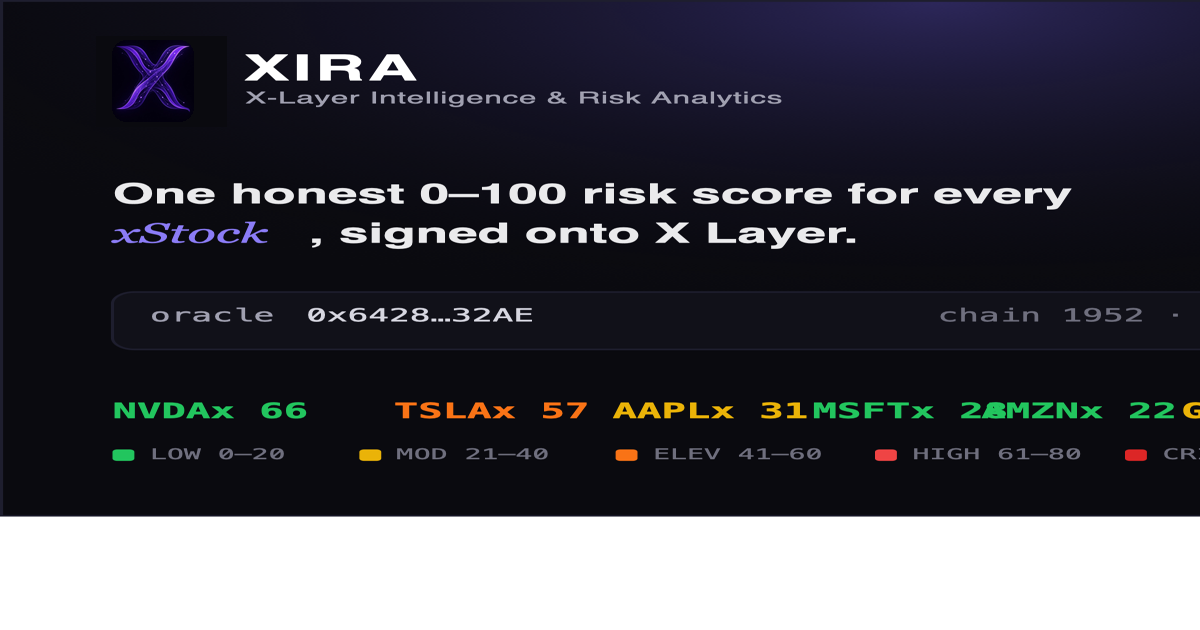
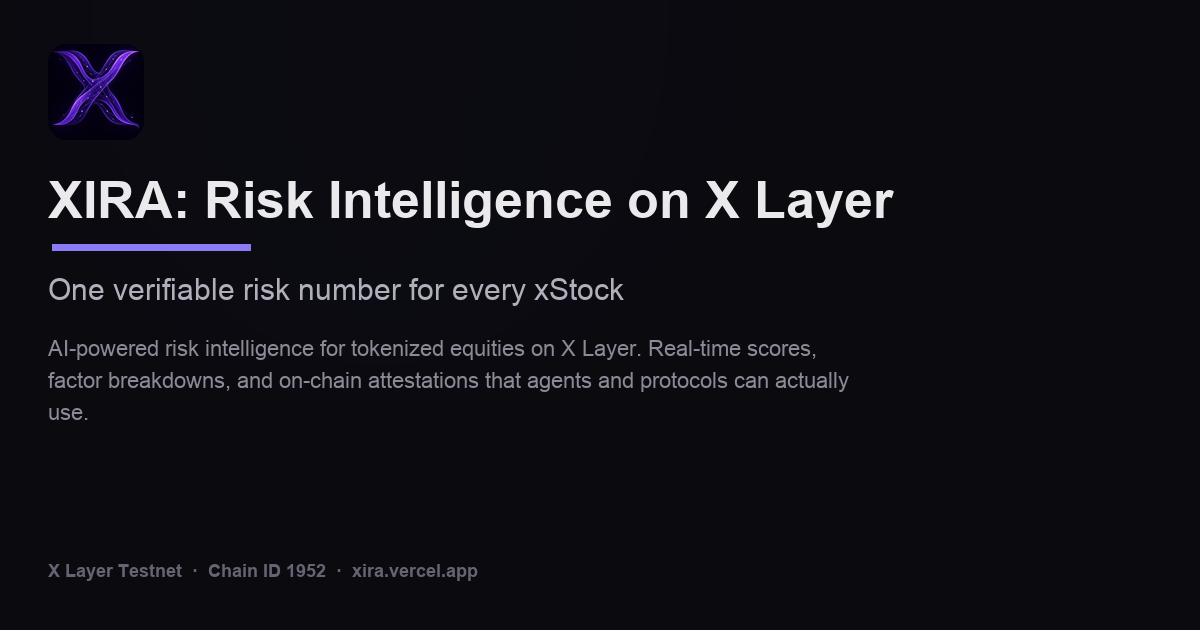
feat(ui): footer redesign, how-to-verify and FAQ sections, new OG copy

diff --git a/frontend/app/page.tsx b/frontend/app/page.tsx
@@ -7,12 +7,14 @@ import { LiveHeatmap } from "@/components/landing/LiveHeatmap";
 import { CopyButton } from "@/components/landing/CopyButton";
 
 export const metadata: Metadata = {
-  title: "XIRA: Risk Intelligence on X Layer",
+  title: "XIRA: One Verifiable Risk Number for Every xStock",
   description:
-    "One honest 0–100 risk score for every tokenized equity, signed onto X Layer as a verifiable attestation.",
+    "AI-powered risk intelligence for tokenized equities on X Layer. Real-time scores, factor breakdowns, and on-chain attestations that agents and protocols can actually use.",
 };
 
 const CONTRACT = "0x64288ccD936470f66D7035e824A9141C938C32AE";
+const EXPLORER = "https://www.okx.com/web3/explorer/xlayer-test";
+const CONTRACT_URL = `${EXPLORER}/address/${CONTRACT}`;
 
 const PIPELINE = [
   {
@@ -64,6 +66,52 @@ const MCP_TOOLS = [
   "xira_get_asset_risk",
   "xira_get_all_assets",
   "xira_get_attestation_history",
+];
+
+const VERIFY_STEPS = [
+  {
+    title: "Copy the oracle contract address",
+    detail: "This is the address every score is published to:",
+  },
+  {
+    title: "Open it on the OKX Explorer",
+    detail: "Each meaningful score update is recorded onchain as a transaction.",
+  },
+  {
+    title: "Check the latest transactions and events",
+    detail: "Match the score, timestamp, and evidence hash shown on this dashboard with the on-chain data.",
+  },
+  {
+    title: "Verify, independently",
+    detail: "Every risk number you see can be verified without trusting this site.",
+  },
+];
+
+const FAQ = [
+  {
+    q: "What is XIRA?",
+    a: "XIRA (X-Layer Intelligence & Risk Analytics) generates real-time risk scores for xStocks and publishes them as verifiable attestations on X Layer.",
+  },
+  {
+    q: "How is the risk score calculated?",
+    a: "It uses a transparent five-factor model: Momentum, Volatility, Sentiment, Volume Anomaly, and Liquidity Proxy. These are combined into a single 0–100 score.",
+  },
+  {
+    q: "Why put the score onchain?",
+    a: "So agents, smart contracts, and users can trust and use the data without relying on a centralized API or dashboard.",
+  },
+  {
+    q: "How often are scores updated?",
+    a: "The system re-scores all markets every 30 minutes and only writes a new attestation when the score changes meaningfully.",
+  },
+  {
+    q: "Can agents use this data?",
+    a: "Yes. XIRA exposes MCP tools (xira_get_asset_risk, xira_get_all_assets, xira_get_attestation_history) so agents can query risk data directly.",
+  },
+  {
+    q: "Is this live on mainnet?",
+    a: "Currently live on X Layer Testnet (Chain ID 1952). Mainnet deployment is planned after the hackathon.",
+  },
 ];
 
 const RWA_GAPS = [
@@ -125,10 +173,10 @@ export default function LandingPage() {
                     Open dashboard
                   </a>
                   <a
-                    href="#chain"
+                    href="#verify"
                     className="inline-flex items-center justify-center px-6 h-12 rounded-xl border border-[var(--card-border)] text-neutral-300 hover:text-white hover:border-neutral-600 transition-colors active:scale-[0.98]"
                   >
-                    Verify on-chain
+                    How to verify
                   </a>
                 </div>
               </Reveal>
@@ -272,6 +320,70 @@ export default function LandingPage() {
         </div>
       </section>
 
+      <section
+        id="verify"
+        className="max-w-7xl mx-auto px-4 sm:px-6 lg:px-8 py-14 sm:py-24 scroll-mt-20"
+      >
+        <Reveal>
+          <h2 className="text-3xl sm:text-4xl font-bold tracking-tight text-balance">
+            How to verify a score.
+          </h2>
+          <p className="mt-4 text-neutral-400 max-w-2xl leading-relaxed">
+            Every risk number you see can be independently verified on X Layer
+            Testnet (Chain ID 1952) in a few steps.
+          </p>
+        </Reveal>
+
+        <ol className="mt-10 space-y-6">
+          {VERIFY_STEPS.map((step, i) => (
+            <Reveal key={step.title} delay={Math.min(i * 80, 240)}>
+              <li className="grid sm:grid-cols-[140px_1fr] gap-2 sm:gap-6 items-baseline">
+                <div className="flex items-center gap-3 sm:justify-end">
+                  <span className="w-8 h-8 rounded-lg bg-[var(--accent)]/15 border border-[var(--accent)]/30 flex items-center justify-center font-mono text-xs text-[var(--accent-glow)]">
+                    {i + 1}
+                  </span>
+                  <span className="text-sm text-neutral-500">{step.title}</span>
+                </div>
+                <div>
+                  {i === 0 ? (
+                    <div className="flex flex-wrap items-center gap-2 rounded-lg border border-[var(--card-border)] bg-[var(--card-bg)] px-3 py-2">
+                      <code className="font-mono text-[11px] text-neutral-300 break-all">
+                        {CONTRACT}
+                      </code>
+                      <CopyButton value={CONTRACT} label="contract address" />
+                    </div>
+                  ) : i === 1 ? (
+                    <p className="text-sm text-neutral-400 leading-relaxed">
+                      <a
+                        href={CONTRACT_URL}
+                        target="_blank"
+                        rel="noreferrer"
+                        className="text-[var(--accent-glow)] hover:underline underline-offset-4"
+                      >
+                        Open the contract on the OKX Explorer
+                      </a>{" "}
+                      and check its latest transactions.
+                    </p>
+                  ) : (
+                    <p className="text-sm text-neutral-400 leading-relaxed">
+                      {step.detail}
+                    </p>
+                  )}
+                </div>
+              </li>
+            </Reveal>
+          ))}
+        </ol>
+
+        <Reveal delay={200}>
+          <p className="mt-10 text-sm text-neutral-300 leading-relaxed border-t border-[var(--card-border)] pt-6 max-w-2xl">
+            Each meaningful score update is recorded onchain. Match the score,
+            timestamp, and evidence hash shown on this dashboard with the
+            on-chain data, and every number proves itself.
+          </p>
+        </Reveal>
+      </section>
+
       <section className="max-w-7xl mx-auto px-4 sm:px-6 lg:px-8 py-14 sm:py-24">
         <Reveal>
           <h2 className="text-3xl sm:text-4xl font-bold tracking-tight text-balance">
@@ -295,6 +407,40 @@ export default function LandingPage() {
             ))}
           </ul>
         </Reveal>
+      </section>
+
+      <section
+        id="faq"
+        className="max-w-3xl mx-auto px-4 sm:px-6 lg:px-8 py-14 sm:py-24 scroll-mt-20"
+      >
+        <Reveal>
+          <h2 className="text-3xl sm:text-4xl font-bold tracking-tight text-balance">
+            Frequently asked questions.
+          </h2>
+        </Reveal>
+
+        <div className="mt-8">
+          {FAQ.map((item, i) => (
+            <Reveal key={item.q} delay={Math.min(i * 50, 200)}>
+              <details className="group border-b border-[var(--card-border)] py-4">
+                <summary className="flex items-center justify-between gap-4 cursor-pointer text-sm font-medium text-neutral-200 hover:text-white transition-colors list-none [&::-webkit-details-marker]:hidden">
+                  <span>{item.q}</span>
+                  <span
+                    className="shrink-0 w-5 h-5 rounded-md border border-[var(--card-border)] flex items-center justify-center text-[var(--accent-glow)] transition-transform group-open:rotate-45"
+                    aria-hidden="true"
+                  >
+                    <svg viewBox="0 0 16 16" className="w-3 h-3" fill="none" stroke="currentColor" strokeWidth="1.8" strokeLinecap="round" aria-hidden="true">
+                      <path d="M8 3v10M3 8h10" />
+                    </svg>
+                  </span>
+                </summary>
+                <p className="mt-3 text-sm text-neutral-400 leading-relaxed pr-8">
+                  {item.a}
+                </p>
+              </details>
+            </Reveal>
+          ))}
+        </div>
       </section>
     </>
   );

diff --git a/frontend/app/layout.tsx b/frontend/app/layout.tsx
@@ -8,6 +8,8 @@ import xlayerLogo from "./xlayer-logo-light.png";
 import "./globals.css";
 
 const CONTRACT = "0x64288ccD936470f66D7035e824A9141C938C32AE";
+const EXPLORER = "https://www.okx.com/web3/explorer/xlayer-test";
+const CONTRACT_URL = `${EXPLORER}/address/${CONTRACT}`;
 const ASSET_BASE = process.env.VERCEL === "1" ? "" : "/xira";
 
 const geistSans = Geist({
@@ -29,13 +31,13 @@ const instrumentSerif = Instrument_Serif({
 
 export const metadata: Metadata = {
   metadataBase: new URL("https://xira-tan.vercel.app"),
-  title: "XIRA: X-Layer Intelligence & Risk Analytics",
+  title: "XIRA: One Verifiable Risk Number for Every xStock",
   description:
-    "AI-powered risk intelligence and signals for tokenized equities on X Layer.",
+    "AI-powered risk intelligence for tokenized equities on X Layer. Real-time scores, factor breakdowns, and on-chain attestations that agents and protocols can actually use.",
   openGraph: {
-    title: "XIRA: X-Layer Intelligence & Risk Analytics",
+    title: "XIRA: One Verifiable Risk Number for Every xStock",
     description:
-      "One honest 0–100 risk score for every tokenized equity, signed onto X Layer as a verifiable attestation.",
+      "AI-powered risk intelligence for tokenized equities on X Layer. Real-time scores, factor breakdowns, and on-chain attestations that agents and protocols can actually use.",
     type: "website",
     siteName: "XIRA",
     url: "https://xira-tan.vercel.app",
@@ -44,15 +46,15 @@ export const metadata: Metadata = {
         url: "/og.png",
         width: 1200,
         height: 630,
-        alt: "XIRA: X-Layer Intelligence & Risk Analytics",
+        alt: "XIRA: Risk Intelligence on X Layer",
       },
     ],
   },
   twitter: {
     card: "summary_large_image",
-    title: "XIRA: X-Layer Intelligence & Risk Analytics",
+    title: "XIRA: One Verifiable Risk Number for Every xStock",
     description:
-      "One honest 0–100 risk score for every tokenized equity, signed onto X Layer as a verifiable attestation.",
+      "AI-powered risk intelligence for tokenized equities on X Layer. Real-time scores, factor breakdowns, and on-chain attestations that agents and protocols can actually use.",
     images: ["/og.png"],
   },
 };
@@ -105,25 +107,36 @@ export default function RootLayout({
                   </div>
                 </div>
                 <p className="mt-5 text-sm text-neutral-400 leading-relaxed">
-                  One honest 0–100 risk score for every{" "}
-                  <span className="font-serif italic text-[var(--accent-glow)]">
-                    xStock
-                  </span>
-                  , signed onto X Layer as a verifiable attestation, readable
-                  by humans, agents, and contracts.
+                  AI-powered risk scores for tokenized equities, published
+                  onchain. XIRA: X-Layer Intelligence &amp; Risk Analytics.
                 </p>
-                <div className="mt-6 flex flex-wrap items-center gap-3 text-[11px]">
-                  <span className="inline-flex items-center gap-1.5 text-neutral-400">
-                    <span className="live-dot w-1.5 h-1.5 rounded-full bg-[var(--accent-glow)]" aria-hidden="true" />
-                    oracle live · rescores every 30 min
-                  </span>
+
+                <div className="mt-6 space-y-3 text-[11px]">
+                  <div className="flex items-start gap-2 rounded-lg border border-[var(--card-border)] bg-[var(--card-bg)] px-3 py-2.5">
+                    <span className="shrink-0 text-neutral-500 pt-0.5">
+                      contract
+                    </span>
+                    <code className="font-mono text-[11px] text-neutral-300 break-all min-w-0">
+                      {CONTRACT}
+                    </code>
+                    <span className="ml-auto shrink-0">
+                      <CopyButton value={CONTRACT} label="contract address" />
+                    </span>
+                  </div>
+                  <p className="text-neutral-500">
+                    Chain ID: <span className="font-mono text-neutral-400">1952</span> · X Layer Testnet
+                  </p>
                 </div>
-                <div className="mt-4 inline-flex items-center gap-2 rounded-lg border border-[var(--card-border)] bg-[var(--card-bg)] px-3 py-2">
-                  <span className="text-[10px] text-neutral-500 mr-1">contract</span>
-                  <code className="font-mono text-[11px] text-neutral-300">
-                    {CONTRACT.slice(0, 10)}…{CONTRACT.slice(-6)}
-                  </code>
-                  <CopyButton value={CONTRACT} label="contract address" />
+
+                <div className="mt-4 rounded-lg border border-emerald-800/40 bg-emerald-950/20 px-3 py-2.5 text-[11px] leading-relaxed">
+                  <p className="flex items-center gap-1.5 text-emerald-400 font-medium">
+                    <svg viewBox="0 0 16 16" className="w-3.5 h-3.5" fill="none" stroke="currentColor" strokeWidth="1.8" strokeLinecap="round" strokeLinejoin="round" aria-hidden="true">
+                      <path d="M3.5 8.5l3 3 6-6" />
+                    </svg>
+                    Verified on X Layer Testnet
+                  </p>
+                  <p className="mt-1 text-neutral-400">1 score = 1 on-chain attestation</p>
+                  <p className="text-neutral-500">Updated every 30 minutes</p>
                 </div>
               </div>
 
@@ -179,9 +192,30 @@ export default function RootLayout({
               <p className="text-xs text-neutral-500">
                 © 2026 XIRA · Built by <span className="text-neutral-400">Gift</span>
               </p>
-              <p className="font-mono text-[11px] text-neutral-600">
-                chain 1952 · contract 0x6428…32AE · testnet · model v1.0.0
-              </p>
+              <nav
+                aria-label="Footer links"
+                className="flex flex-wrap items-center justify-center gap-x-4 gap-y-1 text-xs"
+              >
+                <a
+                  href={CONTRACT_URL}
+                  target="_blank"
+                  rel="noreferrer"
+                  className="text-neutral-400 hover:text-white transition-colors"
+                >
+                  View Contract
+                </a>
+                <span className="text-neutral-700" aria-hidden="true">·</span>
+                <a
+                  href="/dashboard"
+                  className="text-neutral-400 hover:text-white transition-colors"
+                >
+                  Live Dashboard
+                </a>
+                <span className="text-neutral-700" aria-hidden="true">·</span>
+                <span className="text-neutral-500">
+                  Built for the BuildX AI Season Hackathon
+                </span>
+              </nav>
             </div>
 
             <div className="mt-6 pt-5 border-t border-[var(--card-border)] flex items-center justify-center gap-2.5">
